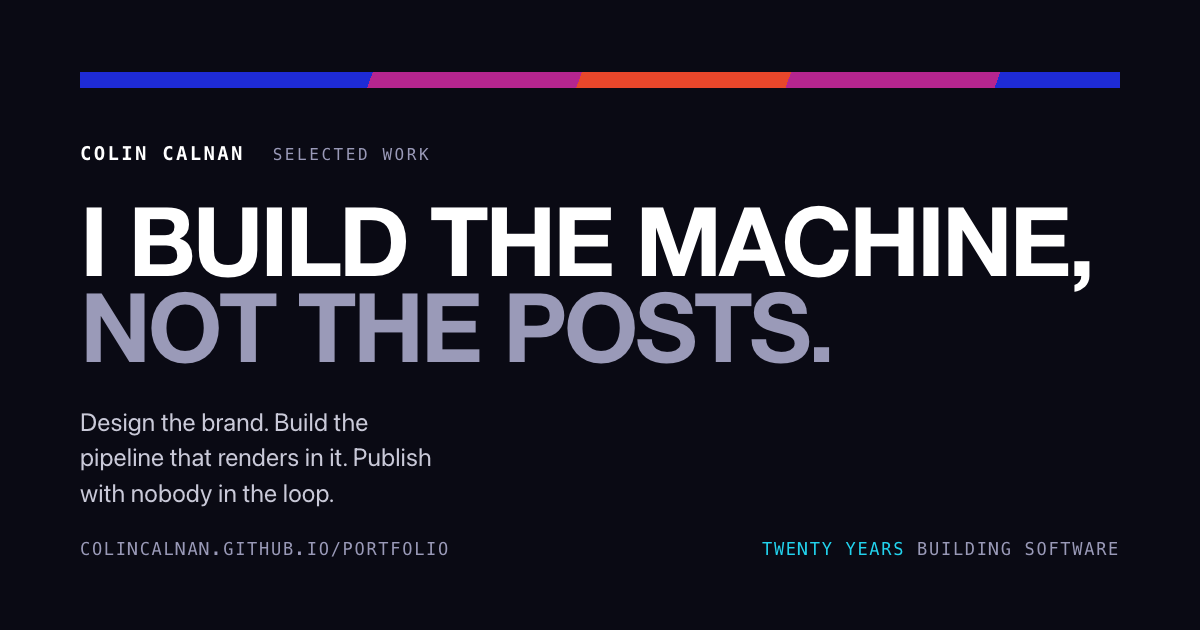
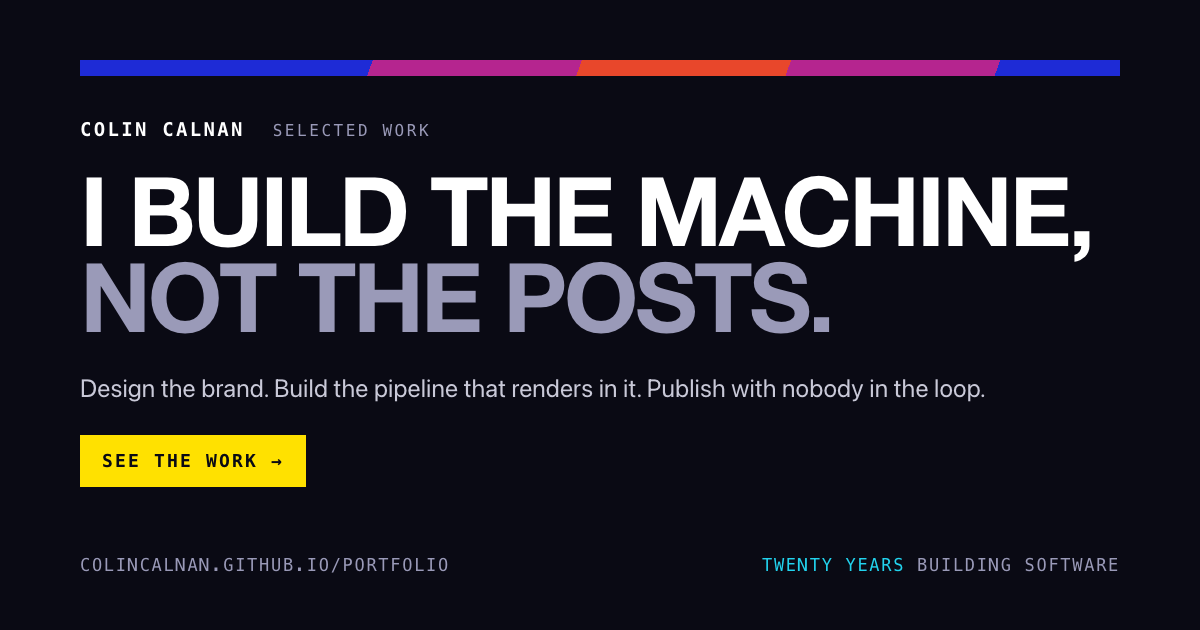
Bold Talks build page, and the main card's inspector fixes
A build page for the design system itself: its start in a study of Shawn
Kanungo's keynote slides, Claude Design, and Vercel's design.md post, how
the three files work, both palettes, and how it powers building in public.
Added to the Builds section. The main portfolio card keeps its dark look
and gains a See the work button, a 60-character title and og:site_name.

Claude-Session: https://claude.ai/code/session_01R9i2j3MWEeZ7wdmYEUuAG9

diff --git a/builds/bold-talks/index.html b/builds/bold-talks/index.html
@@ -1,0 +1,248 @@
+<!doctype html>
+<html lang="en">
+<head>
+<meta charset="utf-8">
+<meta name="viewport" content="width=device-width, initial-scale=1">
+<!-- social:start (generated by scripts/portfolio/build-og-builds.mjs from og.json) -->
+<title>Bold Talks: the design system my agents use | Colin Calnan</title>
+<meta name="description" content="Inspired by Shawn Kanungo's slides and Vercel's design.md: the design system an AI agent reads before building any page of mine.">
+<meta property="og:site_name" content="Colin Calnan">
+<meta property="og:title" content="Bold Talks: the design system my agents use">
+<meta property="og:description" content="Inspired by Shawn Kanungo's slides and Vercel's design.md: the design system an AI agent reads before building any page of mine.">
+<meta property="og:type" content="article">
+<meta property="og:url" content="https://colincalnan.github.io/portfolio/builds/bold-talks/">
+<meta property="og:image" content="https://colincalnan.github.io/portfolio/builds/bold-talks/og.png">
+<meta property="og:image:width" content="1200">
+<meta property="og:image:height" content="630">
+<meta property="og:image:alt" content="The Bold Talks card: a light card with the title, a Read the build button, and a screenshot of a teal build page made with the system.">
+<meta name="twitter:card" content="summary_large_image">
+<meta name="twitter:title" content="Bold Talks: the design system my agents use">
+<meta name="twitter:description" content="Inspired by Shawn Kanungo's slides and Vercel's design.md: the design system an AI agent reads before building any page of mine.">
+<meta name="twitter:image" content="https://colincalnan.github.io/portfolio/builds/bold-talks/og.png">
+<!-- social:end -->
+<link rel="stylesheet" href="../builds.css">
+</head>
+<body>
+<div class="strip" aria-hidden="true"></div>
+<main class="shell">
+
+  <header>
+    <p class="crumb"><a href="../../">Colin Calnan</a> &nbsp;/&nbsp; Builds &nbsp;/&nbsp; Design system</p>
+    <h1 class="display">Bold Talks</h1>
+    <p class="lede">The design system every page of mine is built on. It started with Shawn Kanungo's keynote slides, and it's written down so an AI agent can read it and get the page right the first time. It's let me spin up a page in minutes rather than hours, and it's how I build in public without it eating my evenings.</p>
+    <dl class="facts">
+      <div><dt>Status</dt><dd><span class="status status--live">In use on every page I publish</span></dd></div>
+      <div><dt>Inspired by</dt><dd>Shawn Kanungo's keynote slides, studied April 2026</dd></div>
+      <div><dt>Designed</dt><dd>June 2026, in Claude Design, for a talk</dd></div>
+      <div><dt>Became a system</dt><dd>2 September 2026, two days after Vercel's post</dd></div>
+      <div><dt>Parts</dt><dd>A design.md for judgment, a stylesheet for mechanics, themes for values</dd></div>
+      <div><dt>Read by</dt><dd>Claude Code, which loads the design.md as a skill</dd></div>
+    </dl>
+    <div class="pair">
+      <figure class="plate">
+        <div class="plate__frame"><img src="media/in-use-night.jpg" width="1600" height="1076" alt="The top of Colin's portfolio in the night theme: a near-black page, the cobalt, magenta and orange stripe, and the headline I build the machine, not the posts."></div>
+        <figcaption>Night, the original Bold Talks palette. It runs the main portfolio.</figcaption>
+      </figure>
+      <figure class="plate">
+        <div class="plate__frame"><img src="media/in-use-teal.jpg" width="1600" height="1076" alt="The top of the Foot Stomper build page in the teal theme: a pale teal-grey page with a teal, yellow and violet stripe, the huge title FOOT STOMPER, and the facts row."></div>
+        <figcaption>Teal, the light side. It runs every build page, including this one.</figcaption>
+      </figure>
+    </div>
+  </header>
+
+  <hr>
+
+  <section class="sec" aria-labelledby="origin">
+    <p class="kicker">Where it came from</p>
+    <div class="body">
+      <h2 class="display" id="origin">It started with Shawn Kanungo.</h2>
+      <p>In April 2026, getting ready for a talk, I studied the slides I wanted mine to feel like: Shawn Kanungo's keynotes. I pulled 41 stills from his talks and wrote down what made them work. Four things came out of it, and they're still the first four rules of the system.</p>
+      <ul class="items">
+        <li><h3>One idea per unit</h3><p>If you can't say what a slide is about in four words, it's two slides.</p></li>
+        <li><h3>Text is the design</h3><p>Typography does the visual work. Decoration is never added.</p></li>
+        <li><h3>Scale creates impact</h3><p>Text that feels too big is usually right.</p></li>
+        <li><h3>Bleeds are intentional</h3><p>Letting text crop at the edge makes the idea feel bigger than the screen.</p></li>
+      </ul>
+      <p>The idea underneath all of it, which I noted down as his Instagram rule: every slide should be something a person would want to photograph and share. That's also a decent test for a web page. I took the written study into Claude Design, which turned it into a design system for the June talk, and I named it Bold Talks.</p>
+      <p class="evidence">From my own style study of 41 Kanungo keynote stills, April 2026. None of his slides are reproduced here, only what I learned from them.</p>
+    </div>
+  </section>
+
+  <hr>
+
+  <section class="sec" aria-labelledby="why">
+    <p class="kicker">Why a system</p>
+    <div class="body">
+      <h2 class="display" id="why">An agent with no brand makes a different page every time.</h2>
+      <p>Ask a coding agent for a page and you get its default look: a centred hero, three rounded cards, a gradient somewhere, and a typeface every other generated page uses. Then you spend the next hour pulling it back toward something that looks like you. Describing your brand in a prompt doesn't fix it either, because every model reads the description a little differently.</p>
+      <p>On 31 August 2026 Vercel published how they solved this for their own agents: <a href="https://vercel.com/blog/how-our-agents-build-on-brand-pages-with-design-md" rel="noopener" target="_blank">How our agents build on-brand pages with design.md</a>. Three parts. A design.md written for an agent to read, a public stylesheet that carries the mechanics, and an evaluation loop of automatic checks plus a human review. In their test, pages built with it had 57% fewer mechanical failures: 39 against 91 across six pages.</p>
+      <p>I already had a look I liked. Two days later I turned it into the same shape.</p>
+      <p class="evidence">Vercel's figures are theirs, from the post, published 31 Aug 2026 by John Phamous.</p>
+    </div>
+  </section>
+
+  <hr>
+
+  <section class="sec" aria-labelledby="how">
+    <p class="kicker">How it works</p>
+    <div class="body">
+      <h2 class="display" id="how">Three files, three jobs.</h2>
+      <p class="dim">In the files it's called Ground. Bold Talks is the look, Ground is the system that lets an agent reproduce it.</p>
+      <ol class="steps">
+        <li class="step"><div><h3>Write the judgment down, for an agent</h3><p><code>design.md</code> is 289 lines of plain prose: who's reading the page, what counts as evidence, what to lead with, what to refuse. It carries skill frontmatter, so Claude Code loads it as a skill before it builds anything under my name.</p></div></li>
+        <li class="step"><div><h3>Name what things are, not what colour they are</h3><p>The stylesheet only speaks in roles. A page asks for <code>--gr-ground</code> or <code>--gr-ink-2</code>, never a hex value. The themes supply the values, so the same page can switch look without being rewritten.</p></div></li>
+        <li class="step"><div><h3>A few themes, not a free-for-all</h3><p>Night is the original Bold Talks palette and runs the portfolio. Paper and document cover long reading and print. The teal theme on these build pages is the newest, and the light side of the system.</p></div></li>
+        <li class="step"><div><h3>Build from a short list of parts</h3><p>The rail down the left, the numbered steps, the plate every image sits in, and the evidence line: a small mono line under every claim that says where the number came from. The agent picks from these names instead of inventing layout.</p></div></li>
+        <li class="step"><div><h3>Refuse on purpose</h3><p>No rounded corners, no shadows, no icons standing in for headings, no gradients except the stripe, no em dashes. The common generated-page reflexes are named in the file, because a pattern with a name is easier to refuse.</p></div></li>
+      </ol>
+
+      <div class="code">
+        <div class="code__head"><span>design.md</span><span>four of the rules, verbatim</span></div>
+<pre><span class="k">**Lead with the artifact, not the adjective.**</span> Show the output,
+then say what it is.
+
+<span class="k">**Say "I built" only where it is true.**</span> Where there was a
+partner, name the split. Where a number is unverified, leave it out
+rather than soften it.
+
+<span class="k">**Design in monochrome first.**</span> Add the accent only where it
+changes meaning: a link, a focus ring, a mark, one emphasis.
+
+<span class="k">**Every number carries its source on the same screen.**</span>
+That is the signature device.</pre>
+      </div>
+      <p class="evidence">From projects/ground/design.md, which opens with the four rules from the Kanungo study.</p>
+    </div>
+  </section>
+
+  <hr>
+
+  <section class="sec" aria-labelledby="palette">
+    <p class="kicker">The palettes</p>
+    <div class="body">
+      <h2 class="display" id="palette">Night and teal.</h2>
+      <h3>Night, the original</h3>
+      <div class="swatches">
+        <div class="sw"><i style="background:#0A0A14"></i><span><b>Ground</b>#0A0A14</span></div>
+        <div class="sw"><i style="background:#1E2BD6"></i><span><b>Cobalt</b>#1E2BD6</span></div>
+        <div class="sw"><i style="background:#B5258F"></i><span><b>Magenta, stripe only</b>#B5258F</span></div>
+        <div class="sw"><i style="background:#E8472B"></i><span><b>Orange</b>#E8472B</span></div>
+        <div class="sw"><i style="background:#22D3EE"></i><span><b>Cyan, links</b>#22D3EE</span></div>
+        <div class="sw"><i style="background:#FFE100"></i><span><b>Yellow, focus</b>#FFE100</span></div>
+      </div>
+      <h3 style="margin-top:1.8rem">Teal, the build pages</h3>
+      <div class="swatches">
+        <div class="sw"><i style="background:#EEF3F1"></i><span><b>Ground</b>#EEF3F1</span></div>
+        <div class="sw"><i style="background:#0E2426"></i><span><b>Ink</b>#0E2426</span></div>
+        <div class="sw"><i style="background:#0F766E"></i><span><b>Teal</b>#0F766E</span></div>
+        <div class="sw"><i style="background:#FFCC1A"></i><span><b>Signal yellow</b>#FFCC1A</span></div>
+        <div class="sw"><i style="background:#6D3FD1"></i><span><b>Violet</b>#6D3FD1</span></div>
+        <div class="sw"><i style="background:#0B4F4A"></i><span><b>Deep teal</b>#0B4F4A</span></div>
+      </div>
+      <p>The teal keeps the Bold Talks yellow and violet, and moved off a cream and amber pair I'd started with, because cream and amber is the default look of half the AI-built sites on the internet, Anthropic's own included. Every pairing is checked for contrast and for colour-blind separation before it ships.</p>
+    </div>
+  </section>
+
+  <hr>
+
+  <section class="sec" aria-labelledby="speed">
+    <p class="kicker">The proof</p>
+    <div class="body">
+      <h2 class="display" id="speed">Minutes, not hours.</h2>
+      <div class="stats">
+        <div class="stat"><b>09:15</b><span>First commit of the two build pages on this site, 10 September 2026.</span></div>
+        <div class="stat"><b>09:41</b><span>Same morning: photos, a video and a social card for each page, all published.</span></div>
+        <div class="stat"><b>0</b><span>Design decisions made from scratch along the way. The file had already made them.</span></div>
+      </div>
+      <p class="evidence">Commit times from the portfolio repository's history.</p>
+      <p>The time goes into the content: what the build is, what's true about it, what to show. The layout, the type, the colours, the social card and the tags that make a link preview look right are already decided, so the agent applies them and I review the result rather than redesign it.</p>
+      <div class="pair">
+        <figure class="plate">
+          <div class="plate__frame"><img src="../../og.png" width="1200" height="630" loading="lazy" alt="The portfolio's social card: dark, the Bold Talks stripe, I build the machine, not the posts, and a yellow See the work button."></div>
+          <figcaption>The portfolio's social card, dark.</figcaption>
+        </figure>
+        <figure class="plate">
+          <div class="plate__frame"><img src="../foot-stomper/og.png" width="1200" height="630" loading="lazy" alt="The Foot Stomper social card: light, the teal stripe, the title, a Read the build button and a photo of the device."></div>
+          <figcaption>A build card, light. Rendered from the same system by a script.</figcaption>
+        </figure>
+      </div>
+    </div>
+  </section>
+
+  <hr>
+
+  <section class="sec" aria-labelledby="public">
+    <p class="kicker">Building in public</p>
+    <div class="body">
+      <h2 class="display" id="public">This is how I show the work.</h2>
+      <p>I build something most weekends and most of it used to stay on my laptop. Now every build gets the same four things, and the design system is what makes the last two cheap.</p>
+      <ul class="items">
+        <li><h3>A build log</h3><p>Notes and clips dropped in while I'm working, even one line. Only things that actually happened.</p></li>
+        <li><h3>A build page</h3><p>What it is, how it works, the real numbers with their sources, what fought back, and what it still gets wrong. Like <a href="../foot-stomper/">the Foot Stomper</a> and <a href="../gig-splitter/">the Gig Splitter</a>.</p></li>
+        <li><h3>A social card</h3><p>Generated from the page's own details, so a shared link looks finished everywhere it lands.</p></li>
+        <li><h3>A post</h3><p>A short reel or a write-up that names one decision I made, and points back to the page.</p></li>
+      </ul>
+    </div>
+  </section>
+
+  <hr>
+
+  <section class="sec" aria-labelledby="ai">
+    <p class="kicker">How AI was used</p>
+    <div class="body">
+      <h2 class="display" id="ai">Designed with AI, applied by AI, judged by me.</h2>
+      <ul class="items">
+        <li><h3>Designed in Claude Design</h3><p>My written study of Kanungo's slides went into Claude Design in June 2026, which turned it into the Bold Talks system and exported it as code for the talk's deck.</p></li>
+        <li><h3>Written down with Claude Code</h3><p>The move from a look to a system, the tokens, themes and design.md, was built in Claude Code on 2 September.</p></li>
+        <li><h3>Applied by an agent every time</h3><p>Every page since, including this one, was built by Claude Code with the design.md loaded, then checked by me against it.</p></li>
+        <li><h3>What stayed mine</h3><p>The rules themselves. Several are my calls against the file's own defaults: no max-width on text, the teal off cream and amber, and a light side for builds while the portfolio stays dark.</p></li>
+      </ul>
+    </div>
+  </section>
+
+  <hr>
+
+  <section class="sec sec--warm" aria-labelledby="open">
+    <p class="kicker">Still open</p>
+    <div class="body">
+      <h2 class="display" id="open">What it doesn't do yet.</h2>
+      <ul class="items">
+        <li><h3>The automatic checks</h3><p>The design.md describes fourteen checks a page has to pass, from contrast to "every number has a source". The script that runs them isn't built yet, so for now the check is me. That's the piece of Vercel's loop I'm missing.</p></li>
+        <li><h3>A public URL</h3><p>Vercel's design.md is public, so any agent can load it. Mine lives in my workspace. Publishing it is the next step.</p></li>
+        <li><h3>One home for the teal</h3><p>The teal theme lives in the build pages' own stylesheet for now, not yet alongside night and paper in the system itself.</p></li>
+      </ul>
+    </div>
+  </section>
+
+  <hr>
+
+  <section class="sec" aria-labelledby="time">
+    <p class="kicker">Timeline</p>
+    <div class="body">
+      <h2 class="display" id="time">From a keynote study to a system.</h2>
+      <div class="table-wrap">
+        <table>
+          <thead><tr><th scope="col">When</th><th scope="col">What happened</th></tr></thead>
+          <tbody>
+            <tr><td>Apr 2026</td><td>A study of 41 stills from Shawn Kanungo's keynotes, written down as a style guide.</td></tr>
+            <tr><td>8 Jun</td><td>Bold Talks, designed in Claude Design from that study, exported into the deck for a talk.</td></tr>
+            <tr><td>31 Aug</td><td>Vercel publishes how their agents build on-brand pages with design.md.</td></tr>
+            <tr><td>2 Sep</td><td>Bold Talks becomes Ground: semantic tokens, three themes, and a design.md an agent can read. The portfolio is rebuilt on it the same day.</td></tr>
+            <tr><td>10 Sep</td><td>The teal theme, the first build pages, and social cards generated from the system.</td></tr>
+          </tbody>
+        </table>
+      </div>
+      <ul class="chips"><li>design.md</li><li>CSS custom properties</li><li>Claude Code skills</li><li>Claude Design</li><li>Headless Chrome</li></ul>
+    </div>
+  </section>
+
+  <hr>
+
+  <footer class="foot">
+    <span>Colin Calnan &middot; Lake Country, BC</span>
+    <span><a href="../foot-stomper/">Foot Stomper</a> &nbsp;&middot;&nbsp; <a href="../gig-splitter/">Gig Splitter</a> &nbsp;&middot;&nbsp; <a href="../../">All work</a></span>
+  </footer>
+
+</main>
+</body>
+</html>

diff --git a/index.html b/index.html
@@ -1,14 +1,18 @@
-<title>Colin Calnan / Selected work</title>
+<title>Selected work: AI pipelines, builds and tools | Colin Calnan</title>
 <meta name="viewport" content="width=device-width, initial-scale=1">
 <meta name="description" content="Selected work by Colin Calnan. Generative media pipelines, AI tooling, and the systems that publish them.">
-<meta property="og:title" content="Colin Calnan / Selected work">
+<meta property="og:site_name" content="Colin Calnan">
+<meta property="og:title" content="Selected work: AI pipelines, builds and tools">
 <meta property="og:description" content="Design the brand. Build the pipeline that renders in it. Publish on a schedule with nobody in the loop.">
 <meta property="og:image" content="https://colincalnan.github.io/portfolio/og.png">
 <meta property="og:image:width" content="1200">
 <meta property="og:image:height" content="630">
+<meta property="og:image:alt" content="Colin Calnan's portfolio card: I build the machine, not the posts, with a See the work button.">
 <meta property="og:url" content="https://colincalnan.github.io/portfolio/">
 <meta property="og:type" content="website">
 <meta name="twitter:card" content="summary_large_image">
+<meta name="twitter:title" content="Selected work: AI pipelines, builds and tools">
+<meta name="twitter:description" content="Design the brand. Build the pipeline that renders in it. Publish on a schedule with nobody in the loop.">
 <meta name="twitter:image" content="https://colincalnan.github.io/portfolio/og.png">
 <style>
   /* ============================================================
@@ -790,7 +794,7 @@ img { display: block; max-width: 100%; height: auto; }
       nobody in the loop. Those three usually belong to three different people. I do all
       three, in text, images and video, on work that shipped and that other people used.
       <b>I build with AI coding agents, spec first</b>, and every piece below says
-      exactly how. Two builds with live pages of their own come first, then four case
+      exactly how. Three builds with live pages of their own come first, then four case
       studies, then the smaller things I keep building.
     </p>
 
@@ -832,6 +836,13 @@ img { display: block; max-width: 100%; height: auto; }
       <span class="cr__cat">Music and AI &middot; May 2026</span>
       <h3>Gig Splitter</h3>
       <p>Two hours of gig video in, a captioned reel per song out, named by what I played. Loudness finds the songs, Whisper hears the lyrics, Claude names the song, and the most repeated line picks the chorus. Run on six gigs, and the page shows where it still breaks.</p>
+      <span class="bd__go">Read the build &rarr;</span>
+    </a>
+    <a class="bd" href="builds/bold-talks/" style="--c: var(--gr-warm)">
+      <div class="plate"><div class="plate__frame"><img loading="lazy" decoding="async" src="assets/build-boldtalks.jpg" width="1600" height="1076" alt="The top of a build page in the teal theme: a pale teal-grey page, a teal, yellow and violet stripe, and the huge title FOOT STOMPER."></div></div>
+      <span class="cr__cat">Design system &middot; June 2026</span>
+      <h3>Bold Talks</h3>
+      <p>The design system every page here is built on. It started with Shawn Kanungo's keynote slides and became a design.md an AI agent reads before it builds anything, inspired by Vercel's. Pages in minutes, not hours.</p>
       <span class="bd__go">Read the build &rarr;</span>
     </a>
   </div>

diff --git a/index.src.html b/index.src.html
@@ -1,14 +1,18 @@
-<title>Colin Calnan / Selected work</title>
+<title>Selected work: AI pipelines, builds and tools | Colin Calnan</title>
 <meta name="viewport" content="width=device-width, initial-scale=1">
 <meta name="description" content="Selected work by Colin Calnan. Generative media pipelines, AI tooling, and the systems that publish them.">
-<meta property="og:title" content="Colin Calnan / Selected work">
+<meta property="og:site_name" content="Colin Calnan">
+<meta property="og:title" content="Selected work: AI pipelines, builds and tools">
 <meta property="og:description" content="Design the brand. Build the pipeline that renders in it. Publish on a schedule with nobody in the loop.">
 <meta property="og:image" content="https://colincalnan.github.io/portfolio/og.png">
 <meta property="og:image:width" content="1200">
 <meta property="og:image:height" content="630">
+<meta property="og:image:alt" content="Colin Calnan's portfolio card: I build the machine, not the posts, with a See the work button.">
 <meta property="og:url" content="https://colincalnan.github.io/portfolio/">
 <meta property="og:type" content="website">
 <meta name="twitter:card" content="summary_large_image">
+<meta name="twitter:title" content="Selected work: AI pipelines, builds and tools">
+<meta name="twitter:description" content="Design the brand. Build the pipeline that renders in it. Publish on a schedule with nobody in the loop.">
 <meta name="twitter:image" content="https://colincalnan.github.io/portfolio/og.png">
 <style>
   /* ============================================================
@@ -492,7 +496,7 @@
       nobody in the loop. Those three usually belong to three different people. I do all
       three, in text, images and video, on work that shipped and that other people used.
       <b>I build with AI coding agents, spec first</b>, and every piece below says
-      exactly how. Two builds with live pages of their own come first, then four case
+      exactly how. Three builds with live pages of their own come first, then four case
       studies, then the smaller things I keep building.
     </p>
 
@@ -534,6 +538,13 @@
       <span class="cr__cat">Music and AI &middot; May 2026</span>
       <h3>Gig Splitter</h3>
       <p>Two hours of gig video in, a captioned reel per song out, named by what I played. Loudness finds the songs, Whisper hears the lyrics, Claude names the song, and the most repeated line picks the chorus. Run on six gigs, and the page shows where it still breaks.</p>
+      <span class="bd__go">Read the build &rarr;</span>
+    </a>
+    <a class="bd" href="builds/bold-talks/" style="--c: var(--gr-warm)">
+      <div class="plate"><div class="plate__frame"><img loading="lazy" decoding="async" src="{{IMG:build-boldtalks}}" width="1600" height="1076" alt="The top of a build page in the teal theme: a pale teal-grey page, a teal, yellow and violet stripe, and the huge title FOOT STOMPER."></div></div>
+      <span class="cr__cat">Design system &middot; June 2026</span>
+      <h3>Bold Talks</h3>
+      <p>The design system every page here is built on. It started with Shawn Kanungo's keynote slides and became a design.md an AI agent reads before it builds anything, inspired by Vercel's. Pages in minutes, not hours.</p>
       <span class="bd__go">Read the build &rarr;</span>
     </a>
   </div>

diff --git a/og.src.html b/og.src.html
@@ -9,11 +9,11 @@
   body { width: 1200px; height: 630px; overflow: hidden; }
   .card {
     width: 1200px; height: 630px; box-sizing: border-box;
-    padding: 72px 80px; display: flex; flex-direction: column;
+    padding: 60px 80px 56px; display: flex; flex-direction: column;
     justify-content: space-between; background: var(--gr-ground);
   }
-  .band { height: 16px; background: var(--gr-blocks); margin-bottom: 56px; }
-  .id { display: flex; gap: 28px; align-items: baseline; margin-bottom: 34px; }
+  .band { height: 16px; background: var(--gr-blocks); margin-bottom: 44px; }
+  .id { display: flex; gap: 28px; align-items: baseline; margin-bottom: 28px; }
   .id b { font: 600 19px/1 var(--gr-mono); letter-spacing: .12em; text-transform: uppercase; color: var(--gr-ink); }
   .id span { font: 500 16px/1 var(--gr-mono); letter-spacing: .16em; text-transform: uppercase; color: var(--gr-muted); }
   h1 {
@@ -24,7 +24,15 @@
   h1 span { color: var(--gr-muted); }
   .sub {
     font-size: 25px; line-height: 1.42; color: var(--gr-ink-2);
-    margin: 34px 0 0; max-width: 24ch;
+    margin: 30px 0 0;
+  }
+  /* The call to action, as a Bold Talks yellow label box. Link inspectors and
+     people both look for one on the image. */
+  .cta {
+    display: inline-flex; align-items: center; gap: 14px; margin-top: 30px;
+    background: var(--gr-warm); color: var(--gr-ground);
+    font: 700 18px/1 var(--gr-mono); letter-spacing: .12em; text-transform: uppercase;
+    padding: 17px 22px;
   }
   .foot {
     display: flex; justify-content: space-between; align-items: flex-end;
@@ -39,6 +47,7 @@
     <div class="id"><b>Colin Calnan</b><span>Selected work</span></div>
     <h1>I build the machine,<br><span>not the posts.</span></h1>
     <p class="sub">Design the brand. Build the pipeline that renders in it. Publish with nobody in the loop.</p>
+    <div class="cta">See the work &rarr;</div>
   </div>
   <div class="foot">
     <span>colincalnan.github.io/portfolio</span>

diff --git a/builds/builds.css b/builds/builds.css
@@ -200,6 +200,14 @@ td:first-child { color: var(--ink); font-family: var(--mono); font-size: 13.5px;
 details.numbers { margin-top: 0.8rem; }
 details.numbers summary { cursor: pointer; font: 500 12.5px/1.6 var(--mono); color: var(--accent-ink); }
 
+/* ---- swatches (the design system page) ---- */
+.swatches { display: grid; grid-template-columns: repeat(auto-fit, minmax(150px, 1fr)); gap: 1px; background: var(--rule); border: 1px solid var(--rule); margin-top: 1rem; }
+.sw { background: var(--ground-2); display: flex; flex-direction: column; }
+.sw i { display: block; height: 72px; border-bottom: 1px solid var(--rule-soft); }
+.sw span { display: block; padding: 0.6rem 0.75rem 0.7rem; font: 400 12px/1.5 var(--mono); color: var(--ink-2); }
+.sw span b { display: block; color: var(--ink); font-weight: 600; }
+.body > h3 { margin-top: 0; }
+
 /* ---- footer ---- */
 .foot { display: flex; flex-wrap: wrap; justify-content: space-between; gap: 1rem; font: 400 12.5px/1.6 var(--mono); color: var(--ink-2); }
 .chips { display: flex; flex-wrap: wrap; gap: 0.5rem; list-style: none; margin: 1.4rem 0 0; padding: 0; }
